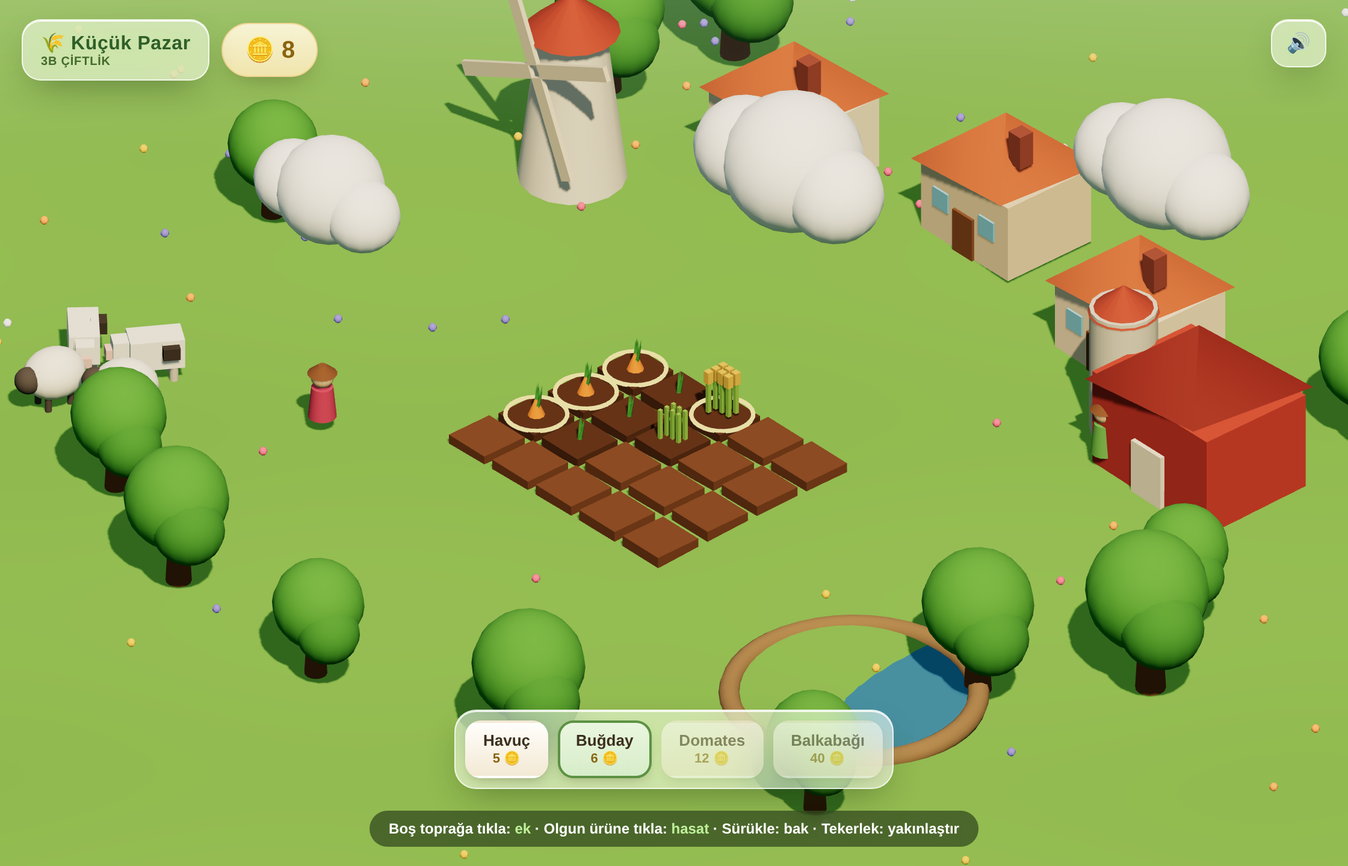
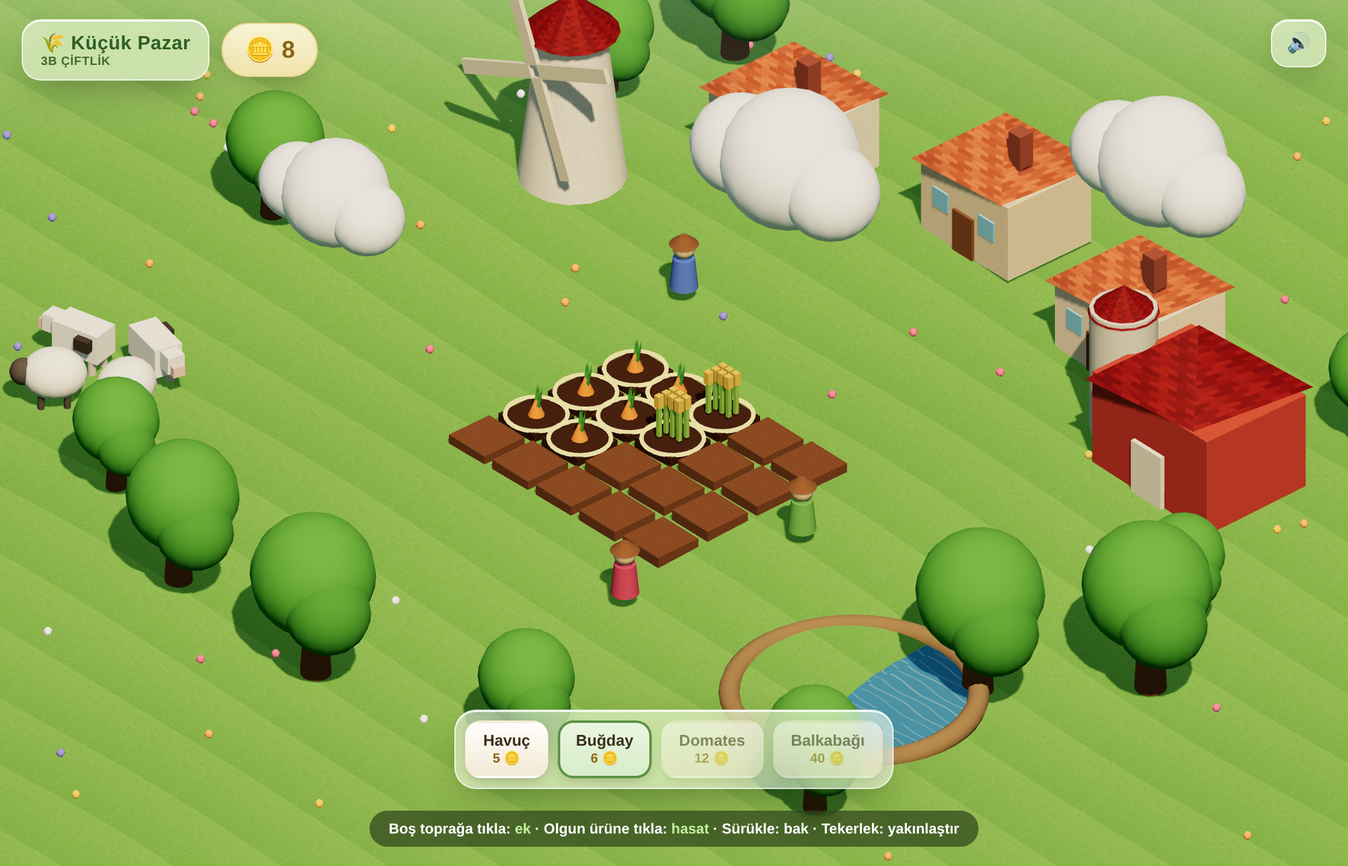
3d: hand-authored procedural material textures + fix inlined-vendor build
Art-team texture pass on the playable WebGL scene: canvas-generated
THREE.CanvasTexture + bumpMap materials for terracotta roof tiles, plaster
walls, tilled farm soil, and a real-time scrolling rippled pond. No external
assets or requests — all drawn in code, CSP-safe.

Also fixes a latent single-file build bug: inlining the minified three.min.js
via String.replace(str, replacementString) let `$&`/`$'` sequences in the
vendor code be interpreted as replacement patterns, corrupting the embedded
Three.js. Switched to a function replacement (and escaped any `</script`),
so the standalone artifact now embeds the vendor bundle intact.

Refresh 3d/preview.png and document the texture work in the README.

diff --git a/cozy-farm-market/3d/scene.js b/cozy-farm-market/3d/scene.js
@@ -31,20 +31,35 @@ function cyl(a,b,h,mat,s){const m=new THREE.Mesh(new THREE.CylinderGeometry(a,b,
 function cone(r,h,mat,s){const m=new THREE.Mesh(new THREE.ConeGeometry(r,h,s||16),mat);m.castShadow=true;m.receiveShadow=true;return m;}
 function sph(r,mat){const m=new THREE.Mesh(new THREE.SphereGeometry(r,16,14),mat);m.castShadow=true;m.receiveShadow=true;return m;}
 function at(m,x,y,z){m.position.set(x,y,z);return m;}
+
+// ---- prosedürel el işi dokular (teknik-sanatçı; harici varlık yok) ----
+function mkTex(sz,fn,rep,srgb){const c=document.createElement('canvas');c.width=c.height=sz;const x=c.getContext('2d');fn(x,sz);const t=new THREE.CanvasTexture(c);if(srgb!==false)t.colorSpace=THREE.SRGBColorSpace;t.wrapS=t.wrapT=THREE.RepeatWrapping;t.repeat.set(rep||1,rep||1);t.anisotropy=4;return t;}
+function rr(a,b){return a+Math.random()*(b-a);}
+const T_grass=mkTex(256,(x,s)=>{const g=x.createLinearGradient(0,0,0,s);g.addColorStop(0,'#77b24c');g.addColorStop(1,'#6aa544');x.fillStyle=g;x.fillRect(0,0,s,s);for(let i=0;i<3200;i++){x.fillStyle=['#82bd57','#64a03d','#8ec964','#5c9438'][i&3];x.globalAlpha=.5;x.fillRect(Math.random()*s,Math.random()*s,rr(1,2.4),rr(1,3));}x.globalAlpha=1;for(let i=0;i<260;i++){x.strokeStyle=Math.random()<.5?'#8fd06a':'#548c36';x.lineWidth=1;const px=Math.random()*s,py=Math.random()*s;x.beginPath();x.moveTo(px,py);x.lineTo(px+rr(-1.5,1.5),py-rr(3,6));x.stroke();}},30);
+const T_soil=mkTex(256,(x,s)=>{x.fillStyle='#7c4e2d';x.fillRect(0,0,s,s);for(let i=0;i<2600;i++){x.fillStyle=['#8a5a34','#673d20','#94663b','#5c3319'][i&3];x.globalAlpha=.55;x.fillRect(Math.random()*s,Math.random()*s,rr(1.5,3.5),rr(1.5,3.5));}x.globalAlpha=1;x.strokeStyle='#5a3419';x.lineWidth=3;for(let r=0;r<6;r++){const y=(r+.5)/6*s;x.beginPath();for(let px=0;px<=s;px+=8)x.lineTo(px,y+Math.sin(px*.05+r)*2);x.stroke();}},2);
+const T_plaster=mkTex(256,(x,s)=>{x.fillStyle='#ffffff';x.fillRect(0,0,s,s);for(let i=0;i<2200;i++){x.fillStyle=Math.random()<.5?'#efe7d6':'#fffdf6';x.globalAlpha=.4;x.fillRect(Math.random()*s,Math.random()*s,rr(2,5),rr(2,5));}x.globalAlpha=1;},2);
+const T_roof=mkTex(256,(x,s)=>{x.fillStyle='#c0663f';x.fillRect(0,0,s,s);const rows=7,cols=8,rh=s/rows,cw=s/cols;for(let r=0;r<rows;r++){for(let c=0;c<cols;c++){const off=(r%2)*cw/2,px=c*cw+off,py=r*rh;x.fillStyle=['#c86a41','#b85c37','#d1734a','#ad5330'][(r+c)&3];x.beginPath();x.moveTo(px,py+rh);x.lineTo(px,py+rh*.4);x.arc(px+cw/2,py+rh*.4,cw/2,Math.PI,0);x.lineTo(px+cw,py+rh);x.closePath();x.fill();}x.strokeStyle='rgba(90,40,25,.4)';x.lineWidth=2;x.beginPath();x.moveTo(0,r*rh+rh);x.lineTo(s,r*rh+rh);x.stroke();}},3);
+const T_water=mkTex(256,(x,s)=>{x.fillStyle='#4f9fd4';x.fillRect(0,0,s,s);for(let r=0;r<10;r++){x.strokeStyle=r%2?'rgba(150,205,235,.6)':'rgba(210,235,250,.5)';x.lineWidth=rr(2,4);const y=r/10*s;x.beginPath();for(let px=0;px<=s;px+=6)x.lineTo(px,y+Math.sin(px*.04+r*1.7)*4);x.stroke();}},2);
+const grassMat=new THREE.MeshStandardMaterial({map:T_grass,bumpMap:T_grass,bumpScale:.35,roughness:1});
+const roofMat=new THREE.MeshStandardMaterial({map:T_roof,bumpMap:T_roof,bumpScale:.25,roughness:.8});
+const roofMatD=new THREE.MeshStandardMaterial({map:T_roof,color:0xb85a48,bumpMap:T_roof,bumpScale:.25,roughness:.8});
+const waterMat=new THREE.MeshStandardMaterial({map:T_water,roughness:.14,metalness:.32,transparent:true,opacity:.94});
+function plasterMat(col){return new THREE.MeshStandardMaterial({map:T_plaster,color:col,bumpMap:T_plaster,bumpScale:.12,roughness:.9});}
+
 function gh(x,z){return 0.28*Math.sin(x*0.26)*Math.cos(z*0.22)+0.2*Math.sin(x*0.12+1.2)-0.08;}
 
 // ---- ground ----
-(function(){const g=new THREE.PlaneGeometry(74,74,80,80);g.rotateX(-Math.PI/2);const p=g.attributes.position;for(let i=0;i<p.count;i++){p.setY(i,gh(p.getX(i),p.getZ(i)));}g.computeVertexNormals();const gr=new THREE.Mesh(g,MAT(0x74b24a,1));gr.receiveShadow=true;scene.add(gr);})();
+(function(){const g=new THREE.PlaneGeometry(74,74,80,80);g.rotateX(-Math.PI/2);const p=g.attributes.position;for(let i=0;i<p.count;i++){p.setY(i,gh(p.getX(i),p.getZ(i)));}g.computeVertexNormals();const gr=new THREE.Mesh(g,grassMat);gr.receiveShadow=true;scene.add(gr);})();
 (function(){const cols=[0xef6f8e,0xf6c045,0x8a86e0,0xffffff,0xff9e57];for(let i=0;i<130;i++){const x=(Math.random()-.5)*58,z=(Math.random()-.5)*58;if(Math.abs(x)<7&&z>-3&&z<9)continue;const f=new THREE.Mesh(new THREE.SphereGeometry(0.13,6,5),new THREE.MeshStandardMaterial({color:cols[i%5],roughness:.85,emissive:cols[i%5],emissiveIntensity:.14}));f.position.set(x,gh(x,z)+0.12,z);scene.add(f);}})();
 
 // ---- backdrop village ----
 const trees=[];
 function tree(x,z,s){s=s||1;const g=new THREE.Group();const tr=cyl(0.28*s,0.4*s,2.2*s,MAT(0x8a5a34,1));tr.position.y=1.1*s;g.add(tr);const fo=new THREE.Group();fo.add(at(sph(1.6*s,MAT(0x5aa53c,.95)),0,2.9*s,0));const b=sph(1.1*s,MAT(0x4f9636,.95));b.position.set(1*s,2.4*s,.4*s);fo.add(b);const d=sph(1.1*s,MAT(0x4f9636,.95));d.position.set(-.9*s,2.5*s,-.3*s);fo.add(d);g.add(fo);g.position.set(x,gh(x,z),z);scene.add(g);trees.push({g:fo,ph:Math.random()*6.3,amp:.03+Math.random()*.03});}
-function barn(x,z){const g=new THREE.Group();g.add(at(box(5,3.2,3.8,MAT(0xc24d3a,.8)),0,1.6,0));const rf=cone(3.3,2,MAT(0x8f3626,.8),4);rf.rotation.y=Math.PI/4;rf.position.y=4.2;rf.scale.set(1,1,.78);g.add(rf);g.add(at(box(1.3,1.8,.2,MAT(0xf2e6cd,.8)),0,.9,1.95));const si=cyl(1,1,4.2,MAT(0xdcd4c4,.7));si.position.set(-3.3,2.1,0);g.add(si);const cp=cone(1.05,.9,MAT(0xb6503a,.8));cp.position.set(-3.3,4.5,0);g.add(cp);g.position.set(x,gh(x,z),z);scene.add(g);}
-function cottage(x,z,col){const g=new THREE.Group();g.add(at(box(3.8,2.5,3.2,MAT(col,.85)),0,1.25,0));const rf=cone(2.75,1.7,MAT(0xc0663f,.8),4);rf.rotation.y=Math.PI/4;rf.position.y=3.35;rf.scale.set(1,1,.85);g.add(rf);g.add(at(box(.5,1.1,.5,MAT(0x9a5240,.9)),1.1,3.7,.4));for(const sx of[-1,1]){const w=box(.65,.65,.1,MAT(0x8fd0e8,.4,.1));w.position.set(sx,1.4,1.62);g.add(w);}g.add(at(box(.85,1.4,.15,MAT(0x8a5a34,.85)),0,.7,1.62));g.position.set(x,gh(x,z),z);scene.add(g);}
+function barn(x,z){const g=new THREE.Group();g.add(at(box(5,3.2,3.8,MAT(0xc24d3a,.8)),0,1.6,0));const rf=cone(3.3,2,roofMatD,4);rf.rotation.y=Math.PI/4;rf.position.y=4.2;rf.scale.set(1,1,.78);g.add(rf);g.add(at(box(1.3,1.8,.2,MAT(0xf2e6cd,.8)),0,.9,1.95));const si=cyl(1,1,4.2,MAT(0xdcd4c4,.7));si.position.set(-3.3,2.1,0);g.add(si);const cp=cone(1.05,.9,roofMatD);cp.position.set(-3.3,4.5,0);g.add(cp);g.position.set(x,gh(x,z),z);scene.add(g);}
+function cottage(x,z,col){const g=new THREE.Group();g.add(at(box(3.8,2.5,3.2,plasterMat(col)),0,1.25,0));const rf=cone(2.75,1.7,roofMat,4);rf.rotation.y=Math.PI/4;rf.position.y=3.35;rf.scale.set(1,1,.85);g.add(rf);g.add(at(box(.5,1.1,.5,MAT(0x9a5240,.9)),1.1,3.7,.4));for(const sx of[-1,1]){const w=box(.65,.65,.1,MAT(0x8fd0e8,.4,.1));w.position.set(sx,1.4,1.62);g.add(w);}g.add(at(box(.85,1.4,.15,MAT(0x8a5a34,.85)),0,.7,1.62));g.position.set(x,gh(x,z),z);scene.add(g);}
 let blades=null;
-function windmill(x,z){const g=new THREE.Group();g.add(at(cyl(1,1.6,5,MAT(0xefe7d6,.8)),0,2.5,0));g.add(at(cone(1.4,1.3,MAT(0xb6503a,.8),16),0,5.65,0));const hub=new THREE.Group();hub.position.set(0,4.2,1.4);for(let i=0;i<4;i++){const bl=box(.45,3.2,.15,MAT(0xe8dcc2,.85));bl.position.y=1.8;const arm=new THREE.Group();arm.add(bl);arm.rotation.z=i*Math.PI/2;hub.add(arm);}g.add(hub);blades=hub;g.position.set(x,gh(x,z),z);scene.add(g);}
-function pond(x,z){const p=new THREE.Mesh(new THREE.CircleGeometry(3.6,40),new THREE.MeshStandardMaterial({color:0x4f9fd4,roughness:.12,metalness:.35,transparent:true,opacity:.92}));p.rotation.x=-Math.PI/2;p.position.set(x,-.02,z);p.receiveShadow=true;scene.add(p);const r=new THREE.Mesh(new THREE.TorusGeometry(3.6,.32,10,44),MAT(0x9a7a52,1));r.rotation.x=-Math.PI/2;r.position.set(x,-.05,z);scene.add(r);}
+function windmill(x,z){const g=new THREE.Group();g.add(at(cyl(1,1.6,5,plasterMat(0xf1e9d8)),0,2.5,0));g.add(at(cone(1.4,1.3,roofMatD,16),0,5.65,0));const hub=new THREE.Group();hub.position.set(0,4.2,1.4);for(let i=0;i<4;i++){const bl=box(.45,3.2,.15,MAT(0xe8dcc2,.85));bl.position.y=1.8;const arm=new THREE.Group();arm.add(bl);arm.rotation.z=i*Math.PI/2;hub.add(arm);}g.add(hub);blades=hub;g.position.set(x,gh(x,z),z);scene.add(g);}
+function pond(x,z){const p=new THREE.Mesh(new THREE.CircleGeometry(3.6,40),waterMat);p.rotation.x=-Math.PI/2;p.position.set(x,-.02,z);p.receiveShadow=true;scene.add(p);const r=new THREE.Mesh(new THREE.TorusGeometry(3.6,.32,10,44),MAT(0x9a7a52,1));r.rotation.x=-Math.PI/2;r.position.set(x,-.05,z);scene.add(r);}
 function cow(x,z){const g=new THREE.Group();g.add(at(box(1.6,.95,.9,MAT(0xfaf6ee,.85)),0,1,0));g.add(at(box(.5,.38,.48,MAT(0x4a4038,.85)),.38,1.15,.45));g.add(at(box(.65,.55,.55,MAT(0xfaf6ee,.85)),-.95,1.15,0));g.add(at(box(.38,.32,.38,MAT(0xf3c9c2,.85)),-1.28,1,0));for(const[a,b]of[[.5,.28],[.5,-.28],[-.38,.28],[-.38,-.28]]){const l=cyl(.13,.13,.85,MAT(0xd7cdbc,.9));l.position.set(a,.42,b);g.add(l);}g.position.set(x,gh(x,z),z);g.rotation.y=Math.random()*3;scene.add(g);}
 function sheep(x,z){const g=new THREE.Group();const bo=sph(.8,MAT(0xfbf7ee,.95));bo.position.y=1.05;bo.scale.set(1.2,.95,1);g.add(bo);g.add(at(sph(.4,MAT(0x5f5750,.85)),-.9,1.1,0));for(const[a,b]of[[.38,.28],[.38,-.28],[-.38,.28],[-.38,-.28]]){const l=cyl(.1,.1,.75,MAT(0x5f5750,.9));l.position.set(a,.38,b);g.add(l);}g.position.set(x,gh(x,z),z);g.rotation.y=Math.random()*3;scene.add(g);}
 const clouds=[];
@@ -68,7 +83,7 @@ const CROPS={
   tomato:{name:'Domates',cost:12,grow:18,value:24,col:0xe8503a},
   pumpkin:{name:'Balkabağı',cost:40,grow:30,value:95,col:0xef8a34},
 };
-const soilMat=MAT(0x7a4d2c,1), soilWetMat=MAT(0x5f3a20,1);
+const soilMat=new THREE.MeshStandardMaterial({map:T_soil,bumpMap:T_soil,bumpScale:.3,roughness:1});const soilWetMat=new THREE.MeshStandardMaterial({map:T_soil,color:0x9a8a80,bumpMap:T_soil,bumpScale:.3,roughness:.85});
 const plots=[];
 const COLS=5, ROWS=4, GAP=1.9;
 for(let r=0;r<ROWS;r++)for(let c=0;c<COLS;c++){
@@ -144,7 +159,7 @@ function tryClick(px,py){const r=cvs.getBoundingClientRect();ndc.x=((px-r.left)/
 // ---- loop ----
 let last=performance.now();
 function loop(now){const dt=Math.min((now-last)/1000,.05);last=now;const t=now/1000;
-  if(blades)blades.rotation.z+=dt*0.6;
+  if(blades)blades.rotation.z+=dt*0.6; T_water.offset.x+=dt*0.02; T_water.offset.y+=dt*0.01;
   for(const tr of trees){tr.g.rotation.z=Math.sin(t*1.2+tr.ph)*tr.amp;}
   for(const c of clouds){c.g.position.x+=dt*c.sp;if(c.g.position.x>28)c.g.position.x=-28;}
   for(const n of npcs){n.t+=dt*n.spd/segLen(n.pts);if(n.t>=1)n.t-=1;const a=path(n.pts,n.t),b=path(n.pts,(n.t+.01)%1);n.g.position.set(a.x,gh(a.x,a.z)+Math.abs(Math.sin(t*8))*.06,a.z);n.g.rotation.y=Math.atan2(b.x-a.x,b.z-a.z);}

diff --git a/cozy-farm-market/README.md b/cozy-farm-market/README.md
@@ -16,9 +16,12 @@ otomatik kaydedilir (localStorage).
 > süre & değer); olgunlaşınca altın halka belirir, tıkla → hasat et, altın uçar. Sürükle: kamerayı
 > döndür · tekerlek: yakınlaştır. Ekonomi + `localStorage` kayıt. Teknik: gerçek izometrik 3B
 > geometri, gerçek zamanlı yumuşak gölgeler (shadow map), PBR malzemeler, ACES filmik tonlama,
-> raycast tıklama, rüyet fonunda dönen değirmen + yürüyen köylüler + otlayan hayvanlar. Stilize
-> **low-poly** görünüm — gerçek 3B, ama el işi Pixar/AAA asset kalitesi değil (o bir 3B sanat ekibi
-> işidir). Vendor `three.min.js` (r160 UMD, npm'den) + `scene.js`. Çevrimdışı / CSP-güvenli.
+> raycast tıklama, rüyet fonunda dönen değirmen + yürüyen köylüler + otlayan hayvanlar. **El işi
+> prosedürel dokular** — kod içinde `<canvas>` ile çizilen ve `THREE.CanvasTexture` + `bumpMap`
+> olarak uygulanan malzemeler: kiremitli terracotta çatı, sıvalı duvar, sürülmüş toprak ve
+> gerçek zamanlı kayan **dalgalı su** (harici görsel/istek yok). Stilize **low-poly** görünüm —
+> gerçek 3B, ama el işi Pixar/AAA asset kalitesi değil (o bir 3B sanat ekibi işidir). Vendor
+> `three.min.js` (r160 UMD, npm'den) + `scene.js`. Çevrimdışı / CSP-güvenli.
 
 ![önizleme](preview.png)
 
